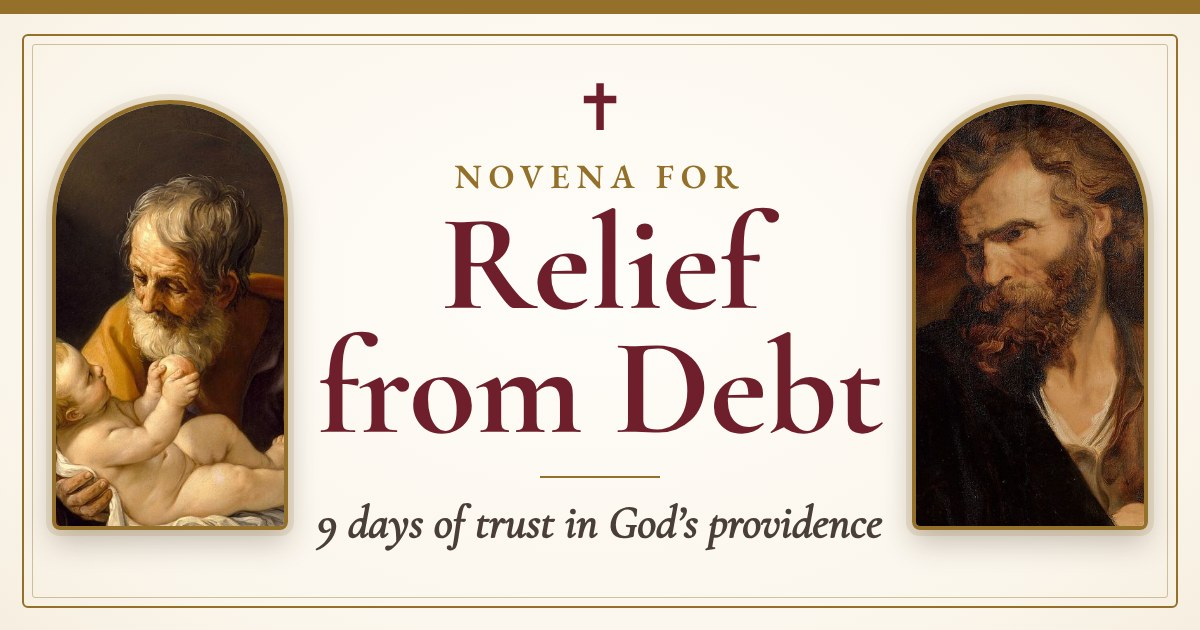
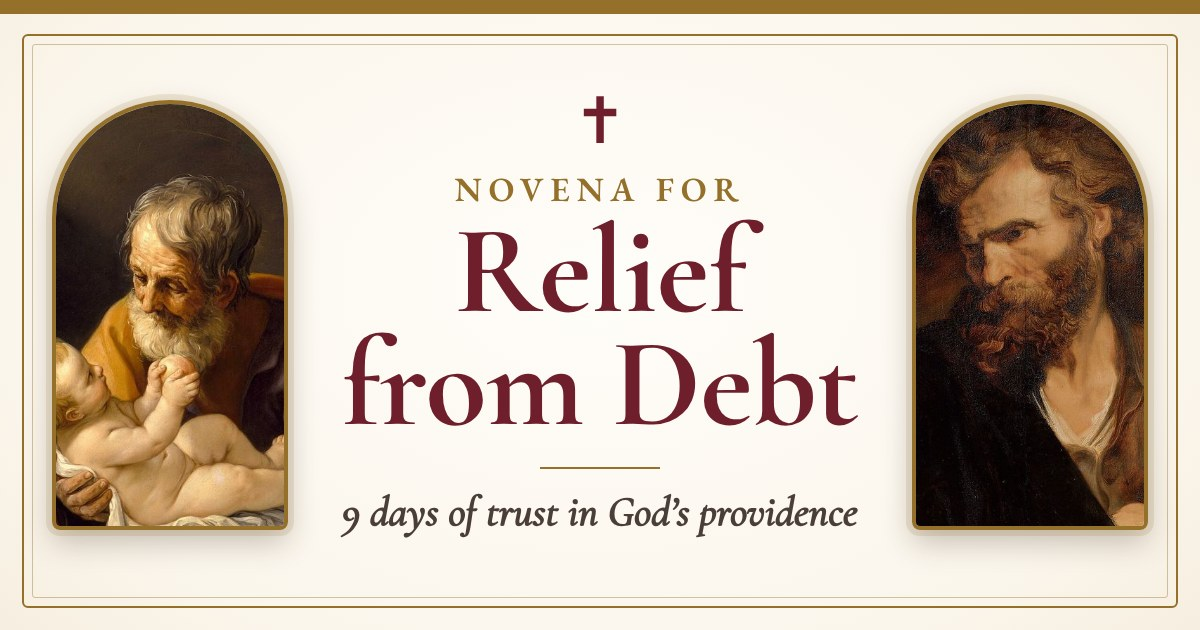
Link previews: 44px+ clear space between the words and the saint arches; every card re-rendered in the site's fonts; og_render.js for Node-only workspaces

diff --git a/site/sw.js b/site/sw.js
@@ -1,7 +1,7 @@
 /* Pray a Novena service worker: keeps the whole library on this device so it opens without signal.
    Pages: network first (corrections arrive right away), the saved copy when offline or after 4000 ms.
    Everything else (images, fonts, icons): saved once and reused. Built by tools/build.py; do not edit site/sw.js. */
-var VERSION = "37c97d7a1d6e";
+var VERSION = "8abe40e6e661";
 var CACHE = "novenas-" + VERSION;
 var FILES = ["apple-touch-icon.png", "favicon.ico", "favicon.svg", "icon-192.png", "icon-512.png", "icon-maskable-512.png", "index.html", "./", "manifest.webmanifest", "about/index.html", "about/", "about/img/angelus.jpg", "about/img/aquinas.jpg", "about/img/augustine.jpg", "about/img/bosco.jpg", "about/img/camillus.jpg", "about/img/cupertino.jpg", "about/img/lamb.jpg", "about/img/longo.jpg", "about/img/paul.jpg", "about/img/pentecost.jpg", "about/img/savio.jpg", "fonts/cormorant-garamond-italic.woff2", "fonts/cormorant-garamond.woff2", "fonts/eb-garamond-italic.woff2", "fonts/eb-garamond.woff2", "fonts/fonts.css", "gift-of-knowledge/index.html", "gift-of-knowledge/", "gift-of-knowledge/img/albert.jpg", "gift-of-knowledge/img/albert_face.jpg", "gift-of-knowledge/img/augustine.jpg", "gift-of-knowledge/img/augustine_face.jpg", "gift-of-knowledge/img/hildegard.jpg", "gift-of-knowledge/img/hildegard_face.jpg", "gift-of-knowledge/img/mary_face.jpg", "healing/index.html", "healing/", "healing/img/bernadette.jpg", "healing/img/bernadette_face.jpg", "healing/img/camillus.jpg", "healing/img/camillus_face.jpg", "healing/img/mary_face.jpg", "healing/img/raphael.jpg", "healing/img/raphael_face.jpg", "impossible-cases/index.html", "impossible-cases/", "impossible-cases/img/jude.jpg", "impossible-cases/img/jude_face.jpg", "impossible-cases/img/rita.jpg", "impossible-cases/img/rita_face.jpg", "passing-an-exam/index.html", "passing-an-exam/", "passing-an-exam/img/aquinas.jpg", "passing-an-exam/img/aquinas_face.jpg", "passing-an-exam/img/cupertino.jpg", "passing-an-exam/img/cupertino_face.jpg", "passing-an-exam/img/mary_face.jpg", "privacy/index.html", "privacy/", "relief-from-debt/index.html", "relief-from-debt/", "relief-from-debt/img/joseph.jpg", "relief-from-debt/img/joseph_face.jpg", "relief-from-debt/img/jude.jpg", "relief-from-debt/img/jude_face.jpg", "relief-from-debt/img/mary_face.jpg", "relief-from-debt/img/rita.jpg", "relief-from-debt/img/rita_face.jpg", "work-and-livelihood/index.html", "work-and-livelihood/", "work-and-livelihood/img/cajetan.jpg", "work-and-livelihood/img/cajetan_face.jpg", "work-and-livelihood/img/homobonus.jpg", "work-and-livelihood/img/homobonus_face.jpg", "work-and-livelihood/img/joseph.jpg", "work-and-livelihood/img/joseph_face.jpg", "work-and-livelihood/img/mary_face.jpg"];
 var TIMEOUT = 4000;

diff --git a/tools/og_render.js b/tools/og_render.js
@@ -1,0 +1,18 @@
+// Renders the cards that `python3 tools/og.py --html DIR` wrote, for workspaces with Node Playwright but no Python Playwright.
+// Same steps as og.py's render(): load the card, run FIT once the fonts are ready, save a JPEG at quality 88.
+const { chromium } = require('playwright');
+const fs = require('fs'), path = require('path');
+(async () => {
+  const dir = process.argv[2];
+  const { fit, jobs } = JSON.parse(fs.readFileSync(path.join(dir, 'jobs.json'), 'utf8'));
+  const b = await chromium.launch();
+  const pg = await b.newPage({ viewport: { width: 1200, height: 630 } });
+  for (const j of jobs) {
+    await pg.setContent(fs.readFileSync(j.html, 'utf8'));
+    await pg.evaluate('(' + fit + ')()');
+    await pg.waitForTimeout(200);
+    await pg.screenshot({ path: j.out, type: 'jpeg', quality: 88 });
+    console.log('wrote', j.out);
+  }
+  await b.close();
+})();

diff --git a/site/gift-of-knowledge/index.html b/site/gift-of-knowledge/index.html
@@ -12,7 +12,7 @@
 <meta property="og:url" content="https://prayanovena.com/gift-of-knowledge/">
 <meta property="og:title" content="Novena for the Gift of Knowledge | Pray a Novena">
 <meta property="og:description" content="9 days of prayer for the gift of knowledge, through Our Lady of Good Counsel, St. Augustine, St. Albert and St. Hildegard.">
-<meta property="og:image" content="https://prayanovena.com/gift-of-knowledge/og.jpg?v=749c108d">
+<meta property="og:image" content="https://prayanovena.com/gift-of-knowledge/og.jpg?v=b686ca47">
 <meta property="og:image:alt" content="Novena for Knowledge: 9 days seeking God in creation and prayer">
 <meta property="og:image:type" content="image/jpeg">
 <meta property="og:image:width" content="1200"><meta property="og:image:height" content="630">

diff --git a/site/impossible-cases/index.html b/site/impossible-cases/index.html
@@ -12,7 +12,7 @@
 <meta property="og:url" content="https://prayanovena.com/impossible-cases/">
 <meta property="og:title" content="Novena for a Desperate or Impossible Case | Pray a Novena">
 <meta property="og:description" content="9 days of prayer for a desperate or impossible case, through St. Jude, St. Rita and Our Lady, Undoer of Knots.">
-<meta property="og:image" content="https://prayanovena.com/impossible-cases/og.jpg?v=3a2f9485">
+<meta property="og:image" content="https://prayanovena.com/impossible-cases/og.jpg?v=314ddc0a">
 <meta property="og:image:alt" content="Novena for Impossible Cases: 9 days of hope when all seems lost">
 <meta property="og:image:type" content="image/jpeg">
 <meta property="og:image:width" content="1200"><meta property="og:image:height" content="630">

diff --git a/site/passing-an-exam/index.html b/site/passing-an-exam/index.html
@@ -12,7 +12,7 @@
 <meta property="og:url" content="https://prayanovena.com/passing-an-exam/">
 <meta property="og:title" content="Novena for Passing an Exam | Pray a Novena">
 <meta property="og:description" content="9 days of prayer for passing an exam, through Our Lady, Seat of Wisdom, St. Joseph of Cupertino and St. Thomas Aquinas.">
-<meta property="og:image" content="https://prayanovena.com/passing-an-exam/og.jpg?v=3ea0af95">
+<meta property="og:image" content="https://prayanovena.com/passing-an-exam/og.jpg?v=76a7e9b1">
 <meta property="og:image:alt" content="Novena for Passing an Exam: 9 days of wisdom, diligence and peace">
 <meta property="og:image:type" content="image/jpeg">
 <meta property="og:image:width" content="1200"><meta property="og:image:height" content="630">

diff --git a/site/relief-from-debt/index.html b/site/relief-from-debt/index.html
@@ -12,7 +12,7 @@
 <meta property="og:url" content="https://prayanovena.com/relief-from-debt/">
 <meta property="og:title" content="Novena for Relief from Debt and Financial Hardship">
 <meta property="og:description" content="9 days of prayer for relief from debt and financial hardship, through St. Joseph, St. Rita and St. Jude.">
-<meta property="og:image" content="https://prayanovena.com/relief-from-debt/og.jpg?v=5e610004">
+<meta property="og:image" content="https://prayanovena.com/relief-from-debt/og.jpg?v=85060e4f">
 <meta property="og:image:alt" content="Novena for Relief from Debt: 9 days of trust in God’s providence">
 <meta property="og:image:type" content="image/jpeg">
 <meta property="og:image:width" content="1200"><meta property="og:image:height" content="630">

diff --git a/site/work-and-livelihood/index.html b/site/work-and-livelihood/index.html
@@ -12,7 +12,7 @@
 <meta property="og:url" content="https://prayanovena.com/work-and-livelihood/">
 <meta property="og:title" content="Novena for Work and Livelihood | Pray a Novena">
 <meta property="og:description" content="9 days of prayer for work and livelihood, through St. Joseph, St. Cajetan and St. Homobonus.">
-<meta property="og:image" content="https://prayanovena.com/work-and-livelihood/og.jpg?v=38495268">
+<meta property="og:image" content="https://prayanovena.com/work-and-livelihood/og.jpg?v=8b146489">
 <meta property="og:image:alt" content="Novena for Work &amp; Livelihood: 9 days of offering our work to God">
 <meta property="og:image:type" content="image/jpeg">
 <meta property="og:image:width" content="1200"><meta property="og:image:height" content="630">

diff --git a/site/healing/index.html b/site/healing/index.html
@@ -12,7 +12,7 @@
 <meta property="og:url" content="https://prayanovena.com/healing/">
 <meta property="og:title" content="Novena for the Healing of the Sick | Pray a Novena">
 <meta property="og:description" content="9 days of prayer for the healing of the sick, through Our Lady of Lourdes, St. Raphael, St. Camillus and St. Bernadette.">
-<meta property="og:image" content="https://prayanovena.com/healing/og.jpg?v=f306137c">
+<meta property="og:image" content="https://prayanovena.com/healing/og.jpg?v=a9e597aa">
 <meta property="og:image:alt" content="Novena for Healing: 9 days of hope in Christ who heals">
 <meta property="og:image:type" content="image/jpeg">
 <meta property="og:image:width" content="1200"><meta property="og:image:height" content="630">

diff --git a/site/index.html b/site/index.html
@@ -13,7 +13,7 @@
 <meta property="og:url" content="https://prayanovena.com/">
 <meta property="og:title" content="Pray a Novena · Catholic novenas for every intention">
 <meta property="og:description" content="9-day Catholic novenas with Scripture, reflections and the prayers of the saints, on your phone or on paper.">
-<meta property="og:image" content="https://prayanovena.com/og.jpg?v=8e6cd507">
+<meta property="og:image" content="https://prayanovena.com/og.jpg?v=fa980f66">
 <meta property="og:image:alt" content="Pray a Novena: Catholic novenas for every intention">
 <meta property="og:image:type" content="image/jpeg">
 <meta property="og:image:width" content="1200"><meta property="og:image:height" content="630">

diff --git a/site/about/index.html b/site/about/index.html
@@ -13,7 +13,7 @@
 <meta property="og:url" content="https://prayanovena.com/about/">
 <meta property="og:title" content="What is a novena? | Pray a Novena">
 <meta property="og:description" content="What a novena is, how to pray one, and why Catholics ask the saints to pray for us.">
-<meta property="og:image" content="https://prayanovena.com/og.jpg?v=8e6cd507">
+<meta property="og:image" content="https://prayanovena.com/og.jpg?v=fa980f66">
 <meta property="og:image:alt" content="Pray a Novena: Catholic novenas for every intention">
 <meta property="og:image:width" content="1200"><meta property="og:image:height" content="630">
 <meta name="twitter:card" content="summary_large_image">

diff --git a/tools/og.py b/tools/og.py
@@ -3,6 +3,7 @@
 
   python3 tools/og.py            # every novena + the library (site/og.jpg)
   python3 tools/og.py healing    # one novena -> novenas/healing/og.jpg
+  python3 tools/og.py --html DIR # no Python Playwright? write the cards as HTML, then: node tools/og_render.js DIR
 
 Run tools/build.py afterwards so the images are copied into site/.
 
@@ -18,7 +19,23 @@ import asyncio, base64, json, os, sys
 
 ROOT = os.path.dirname(os.path.dirname(os.path.abspath(__file__)))
 sys.path.insert(0, os.path.join(ROOT, "tools"))
-from shots import font_css  # noqa: E402
+from shots import font_css as _ttf_css  # noqa: E402
+
+
+def font_css():
+    """the font package's TTFs when present, else the site's own woff2 files (same faces)"""
+    css = _ttf_css()
+    if css:
+        return css
+    d, out = os.path.join(ROOT, "site", "fonts"), []
+    # weights as the site's fonts.css declares them (the italic is a single 500 face, as in the TTF set)
+    for fam, st, w, f in [("Cormorant Garamond", "normal", "500 700", "cormorant-garamond.woff2"),
+                          ("Cormorant Garamond", "italic", "500", "cormorant-garamond-italic.woff2"),
+                          ("EB Garamond", "normal", "400 600", "eb-garamond.woff2"), ("EB Garamond", "italic", "400", "eb-garamond-italic.woff2")]:
+        with open(os.path.join(d, f), "rb") as fh:
+            out.append("@font-face{font-family:'%s';font-style:%s;font-weight:%s;src:url(data:font/woff2;base64,%s)}"
+                       % (fam, st, w, base64.b64encode(fh.read()).decode()))
+    return "".join(out)
 
 # Colors: the site's Wine & Gold palette, on its cream page color (wine as a full background read too red)
 CSS = """
@@ -32,26 +49,31 @@ body{width:1200px;height:630px;overflow:hidden;font-family:'Cormorant Garamond',
   border:4px solid #94702A;box-shadow:0 0 0 6px rgba(148,112,42,.14),0 12px 30px rgba(60,40,20,.28)}
 .arch img{width:100%;height:100%;object-fit:cover}
 .l{left:52px}.r{right:52px}
-.mid{position:absolute;left:300px;width:600px;top:0;bottom:0;display:flex;flex-direction:column;
+/* text column 520px wide: at least 44px of clear cream between the words and each arch */
+.mid{position:absolute;left:340px;width:520px;top:0;bottom:0;display:flex;flex-direction:column;
   align-items:center;justify-content:center;text-align:center;padding:30px 0 34px}
 .cross{color:#6E1F2B;font-size:64px;line-height:1;margin-bottom:6px}
 .pre{font-family:'EB Garamond',Georgia,serif;font-weight:600;font-size:34px;letter-spacing:.2em;
   text-transform:uppercase;color:#94702A;margin:6px 0 0}
-h1{font-weight:700;font-size:150px;line-height:.9;margin:4px 0 0;letter-spacing:-.005em;color:#6E1F2B;max-width:580px;text-wrap:balance}
+h1{font-weight:700;font-size:150px;line-height:.9;margin:4px 0 0;letter-spacing:-.005em;color:#6E1F2B;max-width:520px;text-wrap:balance}
 .rule{width:120px;height:2px;background:#94702A;margin:26px 0 20px}
-.sub{font-style:italic;font-weight:600;font-size:46px;line-height:1.08;color:#4A3F38;margin:0;text-wrap:balance}
+.sub{font-style:italic;font-weight:600;font-size:44px;line-height:1.1;color:#4A3F38;margin:0;max-width:520px;white-space:nowrap}
+.sub.wrap{white-space:normal;text-wrap:balance}
 """
 
-# shrink the title until it fits the column in at most 2 lines, then the subtitle if the stack is too tall.
+# shrink the title until it fits the column in at most 2 lines. The subtitle stays on one line, shrinking to 38px;
+# a longer one wraps onto 2 balanced lines instead of getting tiny. Then shrink it more if the stack is too tall.
 # Run after the web fonts load: measuring with the fallback font gives the wrong widths.
 FIT = """async () => {
   await document.fonts.ready;
   const h = document.querySelector('h1'), mid = document.querySelector('.mid'), sub = document.querySelector('.sub');
   let s = 150;
   const lines = () => Math.round(h.getBoundingClientRect().height / (s * 0.9));
-  while ((h.scrollWidth > 580 || lines() > 2) && s > 70) { s -= 4; h.style.fontSize = s + 'px'; }
-  let t = 46;
-  while (mid.scrollHeight > 630 && t > 34) { t -= 2; sub.style.fontSize = t + 'px'; }
+  while ((h.scrollWidth > 520 || lines() > 2) && s > 70) { s -= 4; h.style.fontSize = s + 'px'; }
+  let t = 44;
+  while (sub.scrollWidth > 520 && t > 38) { t -= 2; sub.style.fontSize = t + 'px'; }
+  if (sub.scrollWidth > 520) { t = 42; sub.style.fontSize = t + 'px'; sub.classList.add('wrap'); }
+  while (mid.scrollHeight > 630 && t > 32) { t -= 2; sub.style.fontSize = t + 'px'; }
 }"""
 
 
@@ -92,7 +114,11 @@ FOCUS = {"joseph": "62% 30%", "jude": "45% 30%", "rita": "55% 30%",
 
 
 def main():
-    only = sys.argv[1] if len(sys.argv) > 1 else None
+    args = sys.argv[1:]
+    html_dir = None
+    if "--html" in args:
+        k = args.index("--html"); html_dir = args[k + 1]; del args[k:k + 2]
+    only = args[0] if args else None
     pairs, lib = [], {}
     base = os.path.join(ROOT, "novenas")
     for slug in sorted(os.listdir(base)):
@@ -116,6 +142,18 @@ def main():
         right = lib.get("raphael") or list(lib.values())[-1]
         pairs.append((card_html("", "Pray a<br>Novena", "Catholic novenas for every intention", left, right),
                       os.path.join(ROOT, "site", "og.jpg")))
+    if html_dir:
+        os.makedirs(html_dir, exist_ok=True)
+        jobs = []
+        for i, (h, out) in enumerate(pairs):
+            f = os.path.join(html_dir, "card%02d.html" % i)
+            with open(f, "w", encoding="utf-8") as fh:
+                fh.write(h)
+            jobs.append({"html": os.path.abspath(f), "out": os.path.abspath(out)})
+        with open(os.path.join(html_dir, "jobs.json"), "w") as fh:
+            json.dump({"fit": FIT, "jobs": jobs}, fh, indent=1)
+        print("wrote", len(jobs), "cards to", html_dir, "- now run: node tools/og_render.js", html_dir)
+        return
     asyncio.run(render(pairs))
 
 
